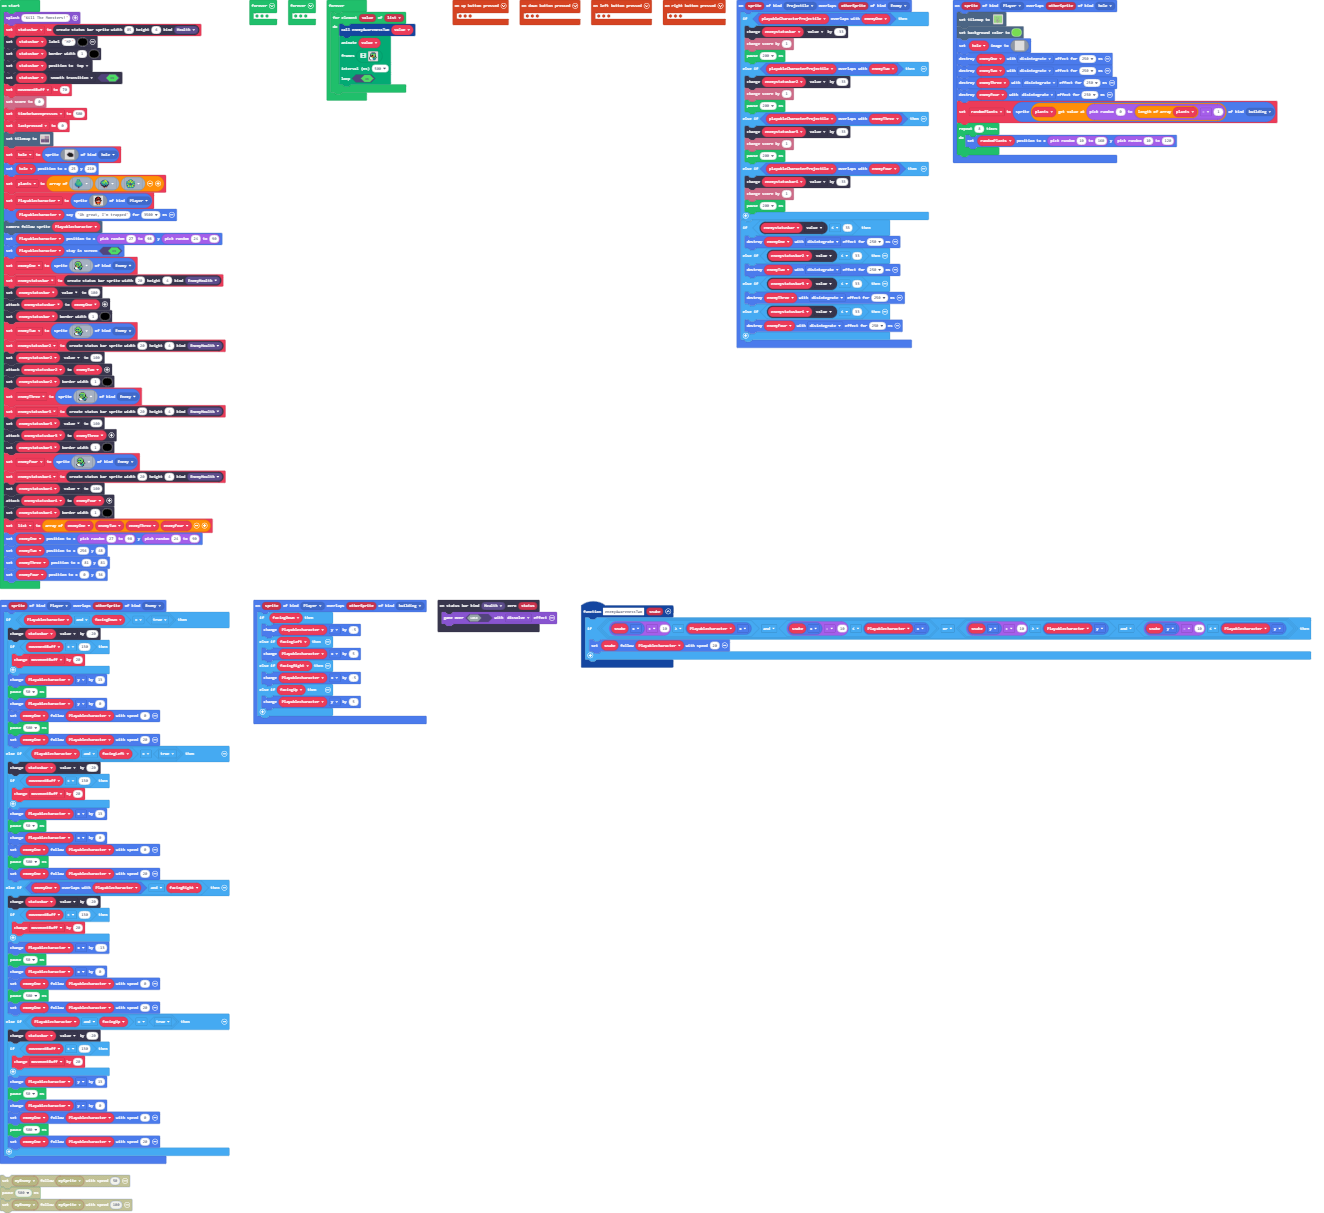
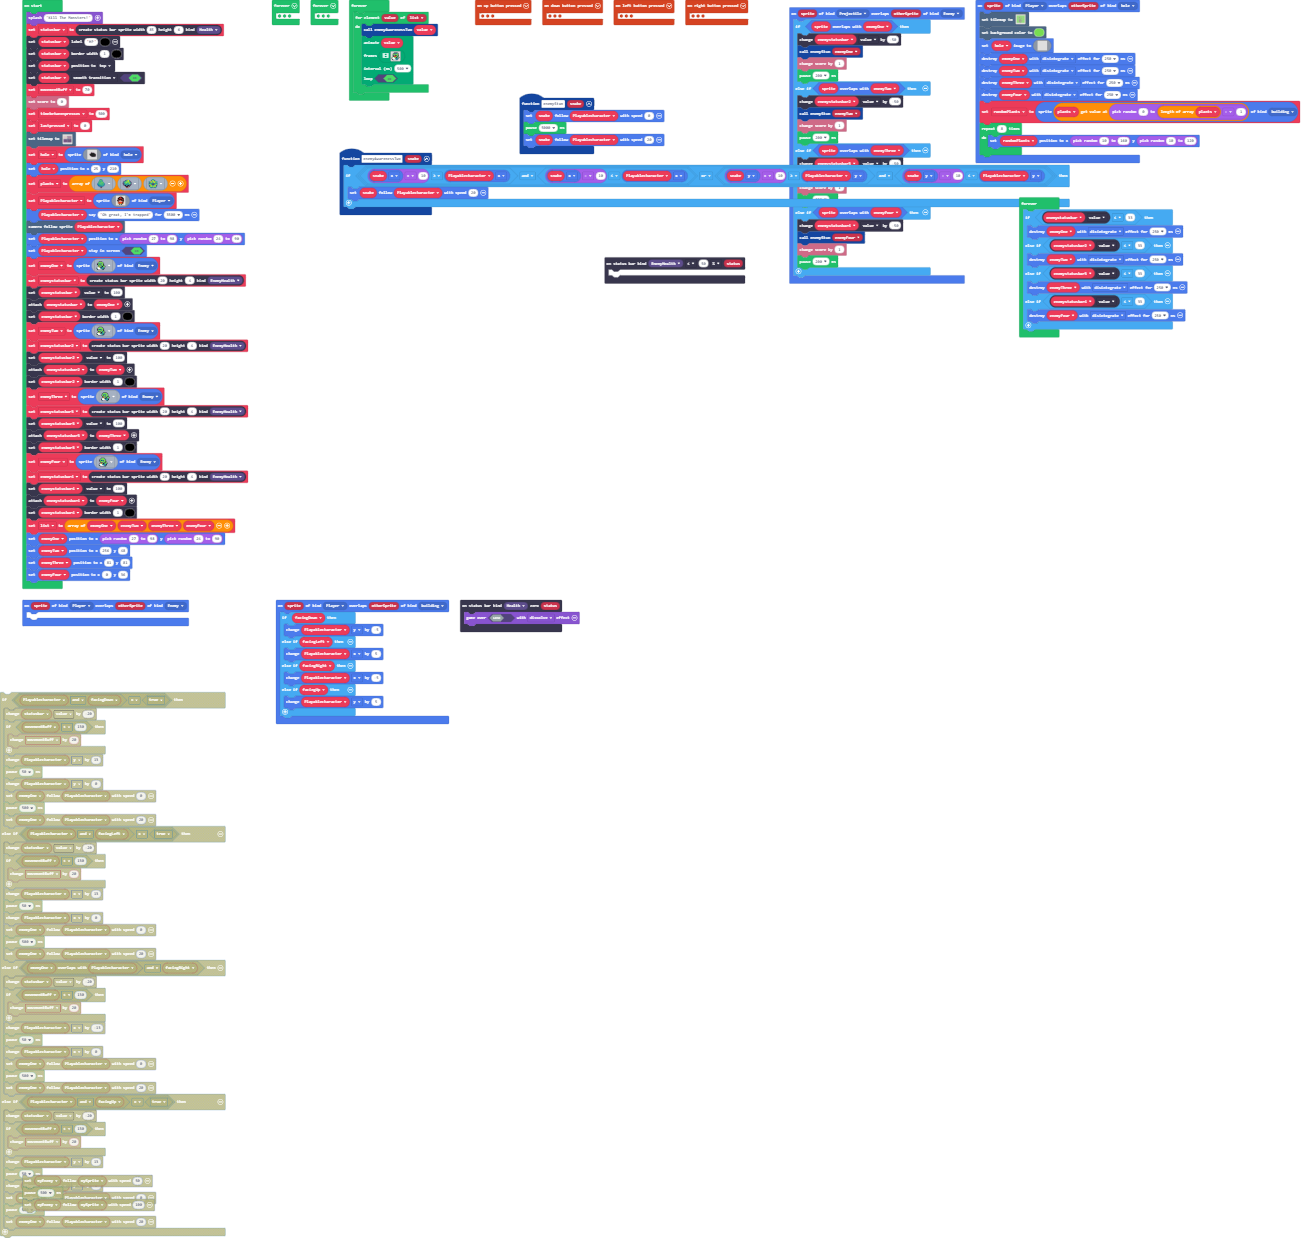
Update main.blocks, main.ts

Changed region(s): [[0.0, 0.0, 0.9992, 1.0]]

diff --git a/main.ts b/main.ts
@@ -87,10 +87,18 @@ controller.up.onEvent(ControllerButtonEvent.Pressed, function () {
     true
     )
 })
+statusbars.onStatusReached(StatusBarKind.EnemyHealth, statusbars.StatusComparison.LTE, statusbars.ComparisonType.Percentage, 50, function (status) {
+	
+})
 function enemyAwarenessTwo (snake: Sprite) {
     if (snake.x + 10 >= Playablecharacter.x && snake.x - 10 <= Playablecharacter.x || snake.y + 10 >= Playablecharacter.y && snake.y - 10 <= Playablecharacter.y) {
         snake.follow(Playablecharacter, 20)
     }
+}
+function enemyStun (snake: Sprite) {
+    snake.follow(Playablecharacter, 0)
+    pause(5000)
+    snake.follow(Playablecharacter, 20)
 }
 sprites.onOverlap(SpriteKind.Player, SpriteKind.building, function (sprite, otherSprite) {
     if (facingDown) {
@@ -374,79 +382,30 @@ controller.down.onEvent(ControllerButtonEvent.Pressed, function () {
     )
 })
 sprites.onOverlap(SpriteKind.Projectile, SpriteKind.Enemy, function (sprite, otherSprite) {
-    if (playableCharacterProjectile.overlapsWith(ememyOne)) {
-        enemystatusbar.value += -33
+    if (sprite.overlapsWith(ememyOne)) {
+        enemystatusbar.value += -50
+        enemyStun(ememyOne)
         info.changeScoreBy(1)
         pause(200)
-    } else if (playableCharacterProjectile.overlapsWith(enemyTwo)) {
-        enemystatusbar2.value += -33
+    } else if (sprite.overlapsWith(enemyTwo)) {
+        enemystatusbar2.value += -50
+        enemyStun(enemyTwo)
         info.changeScoreBy(1)
         pause(200)
-    } else if (playableCharacterProjectile.overlapsWith(enemyThree)) {
-        enemystatusbar3.value += -33
+    } else if (sprite.overlapsWith(enemyThree)) {
+        enemystatusbar3.value += -50
+        enemyStun(enemyThree)
         info.changeScoreBy(1)
         pause(200)
-    } else if (playableCharacterProjectile.overlapsWith(enemyFour)) {
-        enemystatusbar4.value += -33
+    } else if (sprite.overlapsWith(enemyFour)) {
+        enemystatusbar4.value += -50
+        enemyStun(enemyFour)
         info.changeScoreBy(1)
         pause(200)
-    }
-    if (enemystatusbar.value <= 33) {
-        ememyOne.destroy(effects.disintegrate, 250)
-    } else if (enemystatusbar2.value <= 33) {
-        enemyTwo.destroy(effects.disintegrate, 250)
-    } else if (enemystatusbar3.value <= 33) {
-        enemyThree.destroy(effects.disintegrate, 250)
-    } else if (enemystatusbar4.value <= 33) {
-        enemyFour.destroy(effects.disintegrate, 250)
     }
 })
 sprites.onOverlap(SpriteKind.Player, SpriteKind.Enemy, function (sprite, otherSprite) {
-    if ((Playablecharacter && facingDown) == true) {
-        statusbar.value += -20
-        if (movementBuff < 130) {
-            movementBuff += 20
-        }
-        Playablecharacter.y += 13
-        pause(50)
-        Playablecharacter.y += 0
-        ememyOne.follow(Playablecharacter, 0)
-        pause(500)
-        ememyOne.follow(Playablecharacter, 20)
-    } else if ((Playablecharacter && facingLeft) == true) {
-        statusbar.value += -20
-        if (movementBuff < 130) {
-            movementBuff += 20
-        }
-        Playablecharacter.x += 13
-        pause(50)
-        Playablecharacter.x += 0
-        ememyOne.follow(Playablecharacter, 0)
-        pause(500)
-        ememyOne.follow(Playablecharacter, 20)
-    } else if (ememyOne.overlapsWith(Playablecharacter) && facingRight) {
-        statusbar.value += -20
-        if (movementBuff < 130) {
-            movementBuff += 20
-        }
-        Playablecharacter.x += -13
-        pause(50)
-        Playablecharacter.x += 0
-        ememyOne.follow(Playablecharacter, 0)
-        pause(500)
-        ememyOne.follow(Playablecharacter, 20)
-    } else if ((Playablecharacter && facingUp) == true) {
-        statusbar.value += -20
-        if (movementBuff < 130) {
-            movementBuff += 20
-        }
-        Playablecharacter.y += 13
-        pause(50)
-        Playablecharacter.y += 0
-        ememyOne.follow(Playablecharacter, 0)
-        pause(500)
-        ememyOne.follow(Playablecharacter, 20)
-    }
+	
 })
 let playableCharacterProjectile: Sprite = null
 let randomPlants: Sprite = null
@@ -465,15 +424,13 @@ let ememyOne: Sprite = null
 let Playablecharacter: Sprite = null
 let plants: Image[] = []
 let hole: Sprite = null
-let movementBuff = 0
-let statusbar: StatusBarSprite = null
 game.splash("Kill The Monsters!")
-statusbar = statusbars.create(85, 6, StatusBarKind.Health)
+let statusbar = statusbars.create(85, 6, StatusBarKind.Health)
 statusbar.setLabel("HP", 15)
 statusbar.setBarBorder(1, 15)
 statusbar.positionDirection(CollisionDirection.Top)
 statusbar.setStatusBarFlag(StatusBarFlag.SmoothTransition, true)
-movementBuff = 70
+let movementBuff = 70
 info.setScore(0)
 let timebetweenpresses = 500
 let lastpressed = 0
@@ -1060,5 +1017,16 @@ forever(function () {
         500,
         true
         )
+    }
+})
+forever(function () {
+    if (enemystatusbar.value <= 33) {
+        ememyOne.destroy(effects.disintegrate, 250)
+    } else if (enemystatusbar2.value <= 33) {
+        enemyTwo.destroy(effects.disintegrate, 250)
+    } else if (enemystatusbar3.value <= 33) {
+        enemyThree.destroy(effects.disintegrate, 250)
+    } else if (enemystatusbar4.value <= 33) {
+        enemyFour.destroy(effects.disintegrate, 250)
     }
 })
